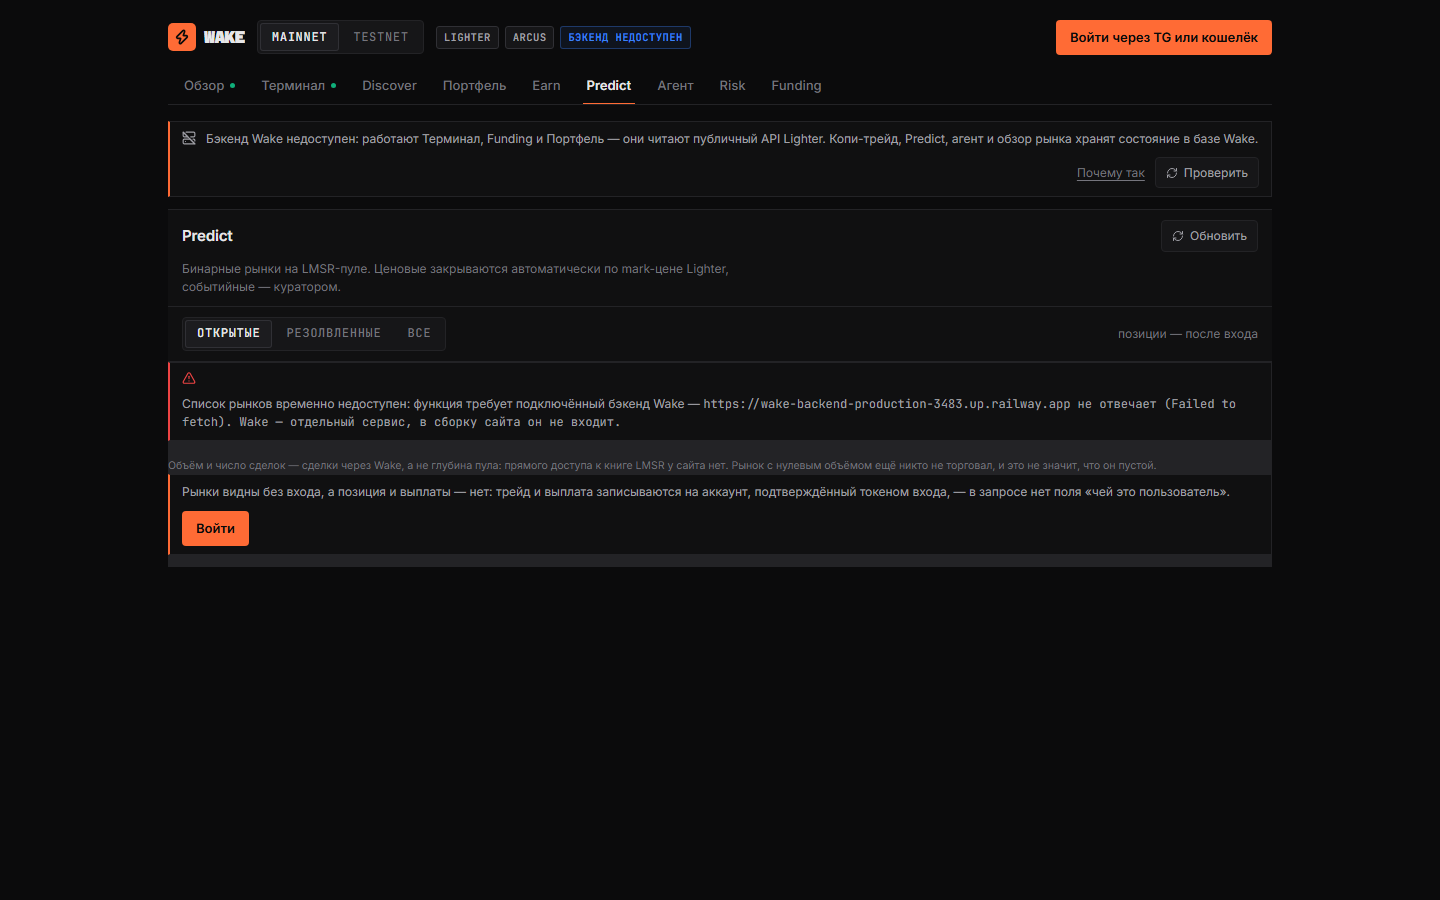
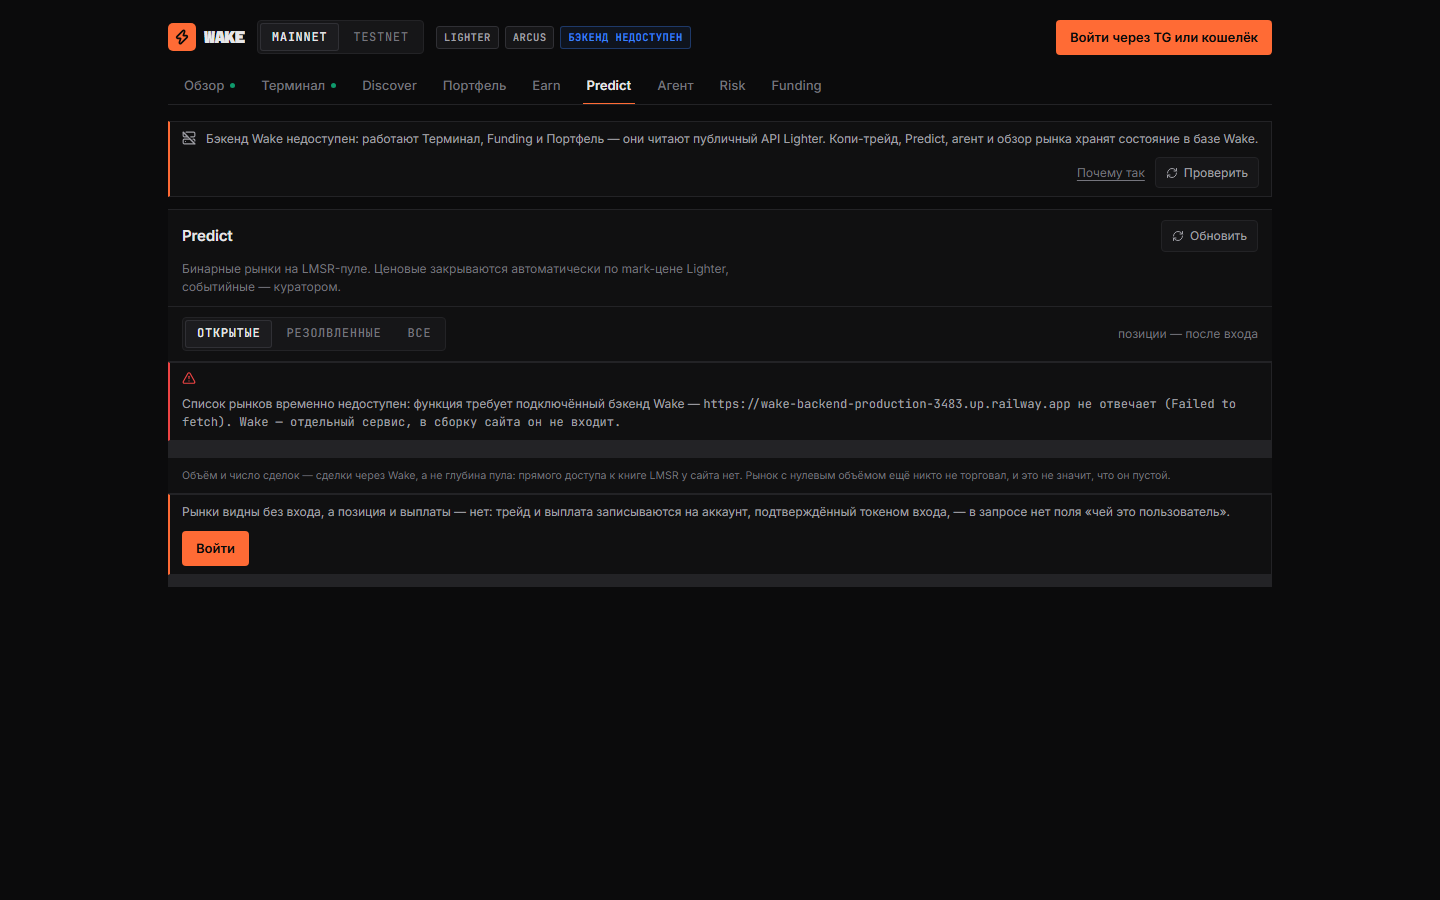
fix(ui): подпись под панелью лежала на цвете зазора сетки
Третья строка .terminal-main — это grid с зазором в 1px, а цвет зазора равен
--line. Отдельная подпись без собственной поверхности (такой же, как у панелей
над ней) печаталась по серой полосе через всю ширину, и это было видно на
снимке Predict в документации.

Changed region(s): [[0.0938, 0.4978, 0.9062, 0.6533]]

diff --git a/src/index.css b/src/index.css
@@ -693,6 +693,14 @@
     margin: 0;
   }
 
+  /* Подпись под панелью лежит в третьей строке .terminal-main, а её фон — это
+     цвет зазора сетки (--line): без собственной поверхности текст едет по
+     серой полосе. */
+  .terminal-main > .fineprint {
+    background: var(--bg-1);
+    padding: 10px 14px;
+  }
+
   .fineprint code { color: var(--fg-2); }
 
   .chart-tip {
